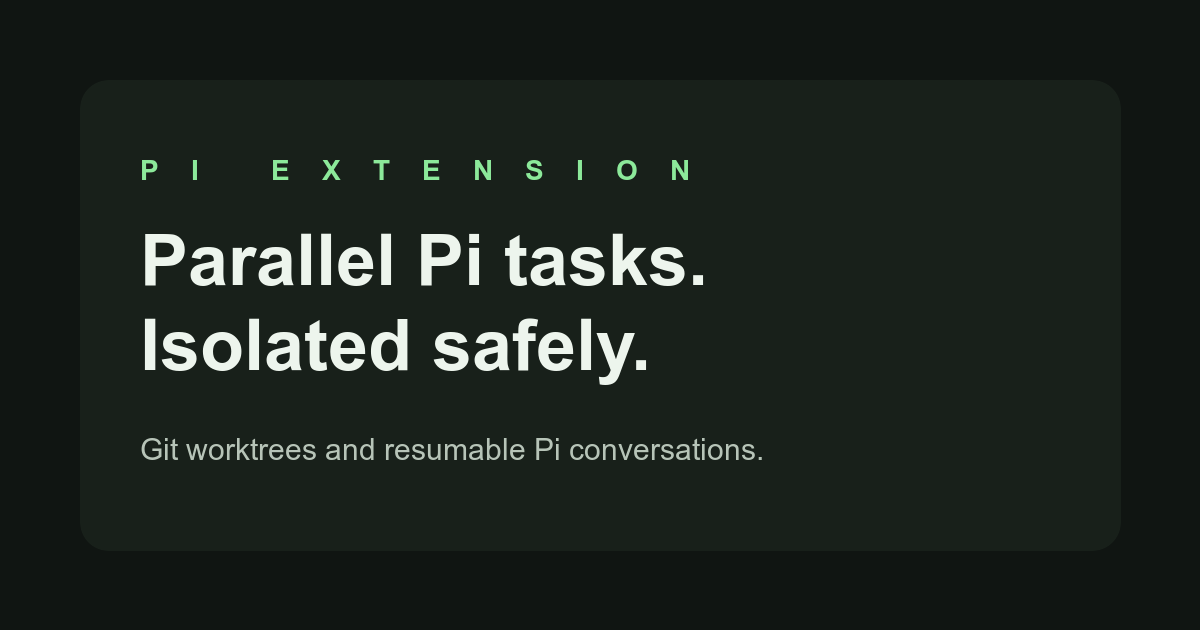
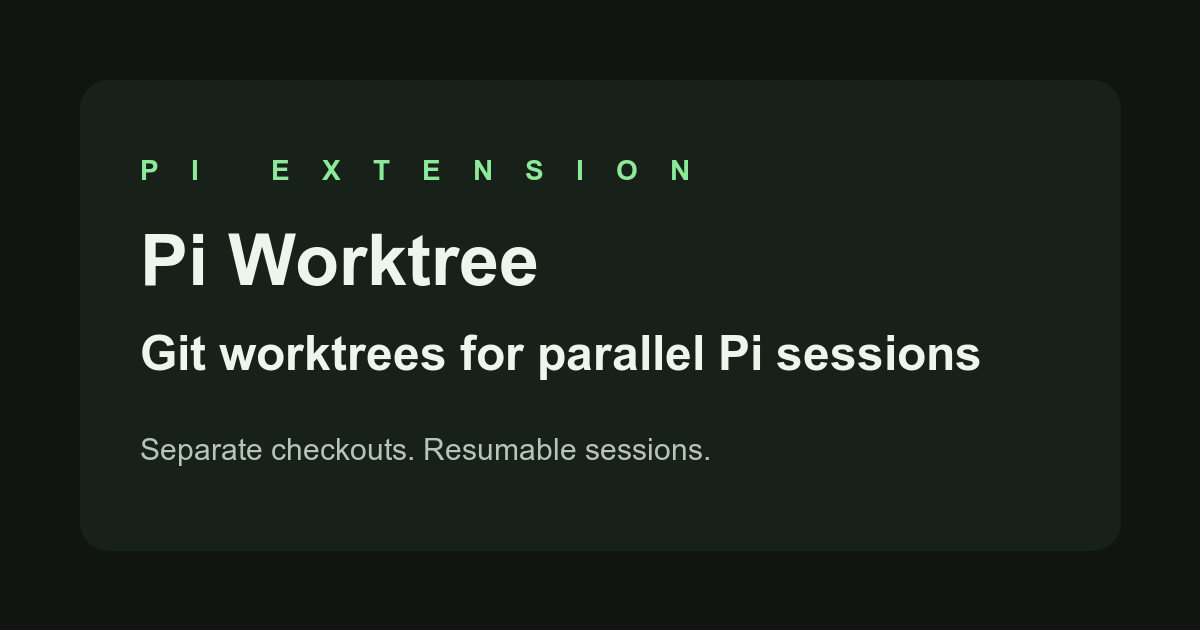
docs: simplify project site copy

Changed region(s): [[0.1233, 0.4825, 0.8325, 0.6333], [0.1542, 0.3619, 0.5858, 0.4524], [0.0925, 0.6937, 0.6475, 0.754]]

diff --git a/index.html b/index.html
@@ -8,14 +8,14 @@
   <link rel="icon" href="assets/favicon.svg" type="image/svg+xml">
   <meta property="og:type" content="website">
   <meta property="og:url" content="https://ajayposhak.github.io/pi-worktree-extension/">
-  <meta property="og:title" content="Pi Worktree — Parallel Pi tasks, isolated safely">
+  <meta property="og:title" content="Pi Worktree: Git worktrees for Pi">
   <meta property="og:description" content="Run multiple Pi coding tasks in parallel with isolated Git worktrees and resumable sessions.">
   <meta property="og:image" content="https://ajayposhak.github.io/pi-worktree-extension/assets/og-image.png">
   <meta name="twitter:card" content="summary_large_image">
-  <meta name="twitter:title" content="Pi Worktree — Parallel Pi tasks, isolated safely">
+  <meta name="twitter:title" content="Pi Worktree: Git worktrees for Pi">
   <meta name="twitter:description" content="Run multiple Pi coding tasks in parallel with isolated Git worktrees and resumable sessions.">
   <meta name="twitter:image" content="https://ajayposhak.github.io/pi-worktree-extension/assets/og-image.png">
-  <title>Pi Worktree — Parallel Pi tasks, isolated safely</title>
+  <title>Pi Worktree: Git worktrees for Pi</title>
   <style>
     :root { color-scheme: dark; --bg: #101512; --panel: #18201a; --text: #edf5ed; --muted: #b7c4b8; --accent: #8ce99a; --line: #304034; }
     * { box-sizing: border-box; }
@@ -53,9 +53,9 @@
   <main>
     <section class="hero">
       <div class="eyebrow">Pi extension</div>
-      <h1>Parallel Pi tasks. Isolated safely.</h1>
-      <p class="lead">Two agents in one checkout overwrite each other’s edits. Raw Git worktrees mean creating a branch and checkout, changing directories, relaunching Pi, tracking tasks, and cleaning up by hand.</p>
-      <p class="lead">Pi Worktree gives each task its own Git branch, checkout, and resumable Pi conversation—so each agent edits its own checkout.</p>
+      <h1>Git worktrees for parallel Pi sessions</h1>
+      <p class="lead">Two Pi sessions in one checkout can overwrite each other's edits. Managing Git worktrees manually requires a branch, checkout, directory change, Pi restart, and cleanup.</p>
+      <p class="lead">Pi Worktree creates task worktrees and keeps each one associated with its Pi session. Each session works in a separate checkout.</p>
       <pre><code>pi install npm:pi-worktree-extension
 pi
 /worktree fix-auth</code></pre>
@@ -71,29 +71,29 @@ pi
     </section>
 
     <section>
-      <h2>Worktrees without the busywork</h2>
+      <h2>Manual workflow and Pi Worktree</h2>
       <div class="table-wrap"><table>
         <thead><tr><th>Task</th><th>Pi Worktree</th><th>Manual workflow</th></tr></thead>
         <tbody>
-          <tr><td>Start an isolated task</td><td><code>/worktree fix-auth</code></td><td>Create branch, add worktree, <code>cd</code>, then relaunch Pi</td></tr>
-          <tr><td>Move the active conversation</td><td><code>/worktree fix-auth</code></td><td>Start a new session and recreate context by hand</td></tr>
-          <tr><td>Return to the primary checkout</td><td><code>/worktree-exit</code></td><td>Find it and relaunch or resume Pi</td></tr>
-          <tr><td>Remove a finished checkout</td><td><code>/worktree-remove fix-auth</code></td><td>Verify it is clean and inactive, then remove it</td></tr>
+          <tr><td>Start a task</td><td><code>/worktree fix-auth</code></td><td>Create a branch and worktree, <code>cd</code>, start Pi</td></tr>
+          <tr><td>Move a conversation</td><td><code>/worktree fix-auth</code></td><td>Start a new Pi session and restate the task</td></tr>
+          <tr><td>Return to the primary checkout</td><td><code>/worktree-exit</code></td><td>Find the checkout and restart or resume Pi</td></tr>
+          <tr><td>Remove a checkout</td><td><code>/worktree-remove fix-auth</code></td><td>Check that it is clean and inactive, then remove it</td></tr>
         </tbody>
       </table></div>
     </section>
 
     <section>
-      <h2>Already mid-conversation? Move it, history included.</h2>
-      <p>Use <code>/worktree fix-auth</code> from an active Pi session to move the conversation into an isolated checkout. The task keeps its context; you do not need to start a new chat or restate the work.</p>
+      <h2>Move an active conversation</h2>
+      <p>Run <code>/worktree fix-auth</code> from an active Pi session. Pi moves the current conversation into the worktree, including its history.</p>
       <div class="grid">
-        <article class="card"><h3>Resume by task</h3><p>Reopen a worktree and continue its latest Pi session.</p></article>
-        <article class="card"><h3>Conservative cleanup</h3><p>Removal refuses dirty or active worktrees and never deletes branches.</p></article>
+        <article class="card"><h3>Resume a task</h3><p>Reopen a worktree and continue its latest Pi session.</p></article>
+        <article class="card"><h3>Safe removal</h3><p>Removal refuses dirty or active worktrees. Branches are kept.</p></article>
       </div>
     </section>
 
     <section>
-      <h2>One task, one workspace</h2>
+      <h2>Worktree layout</h2>
       <pre><code>my-project/
 ├── primary checkout                 main
 └── .pi/worktrees/
